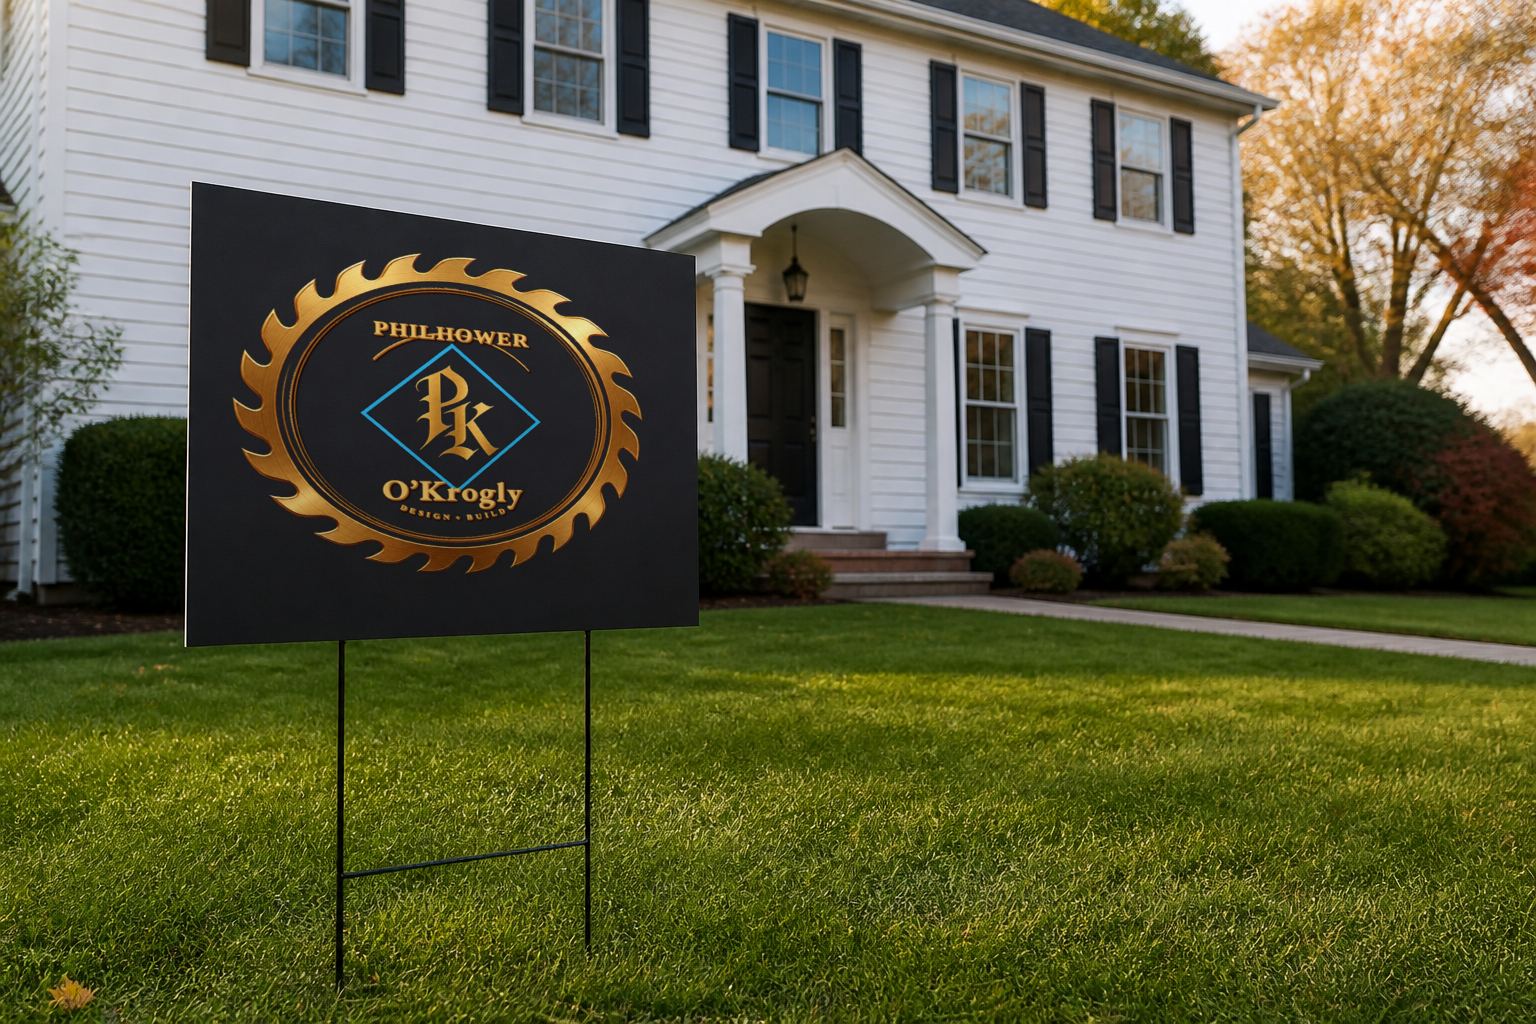
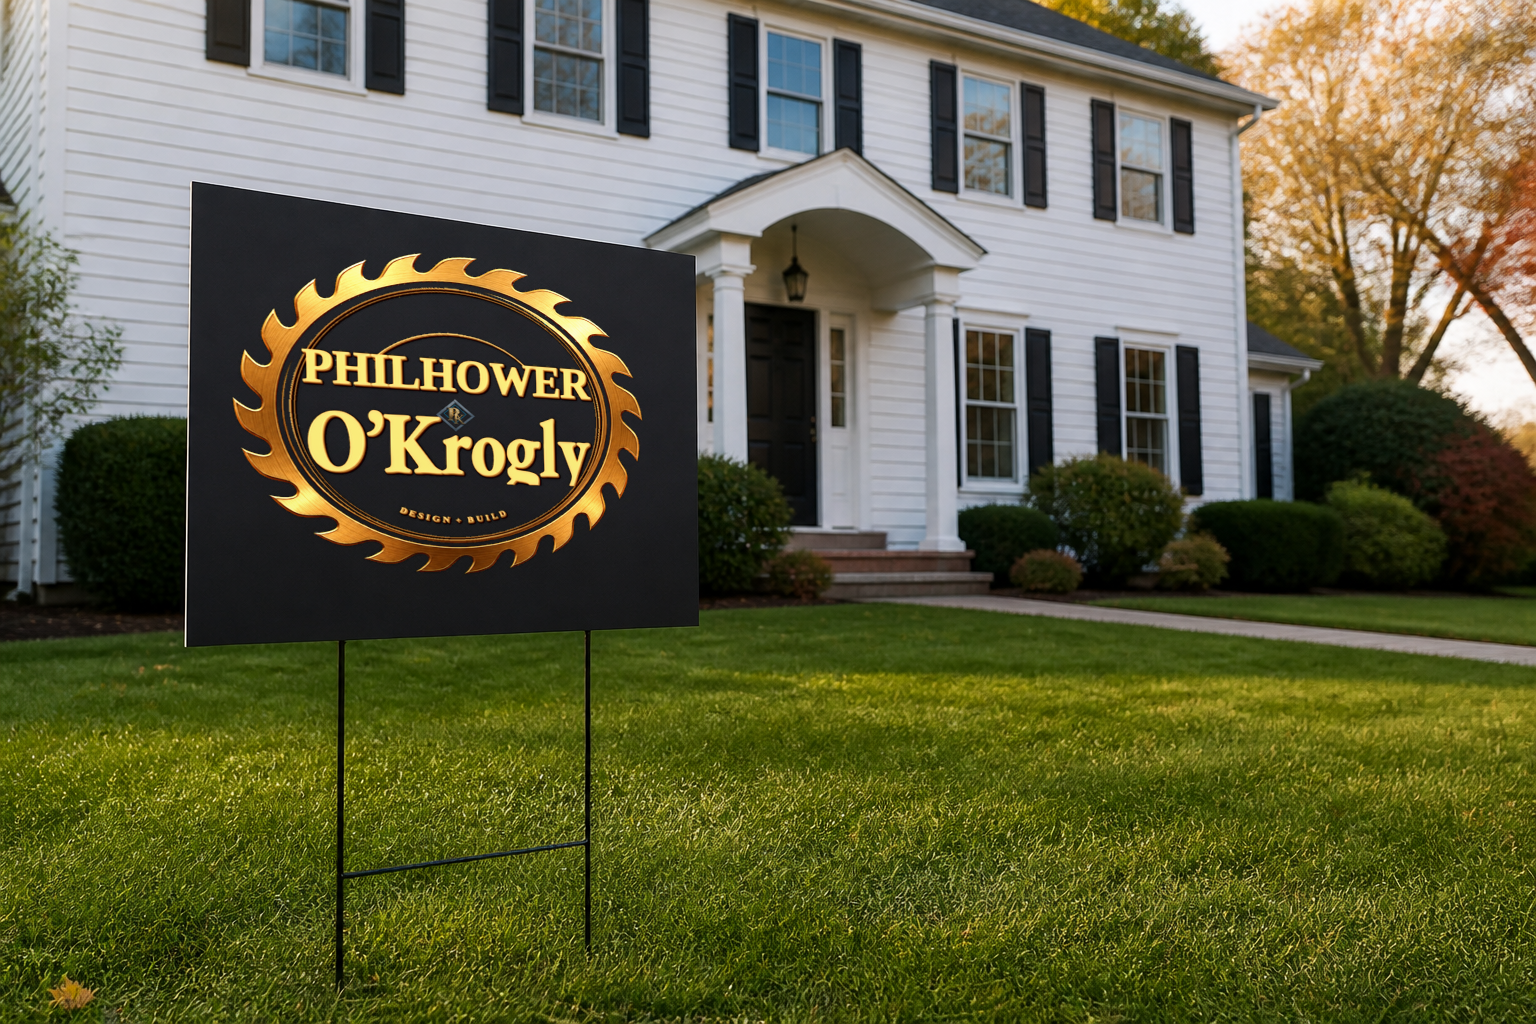
Restyle the POK diamond as a carpenter-square PK.
NJ trade research: keep the Hills blade and big Times/Garamond names;
swap gothic PK for a pale framing-square diamond. Theme 1.0.27.

Changed region(s): [[0.1562, 0.25, 0.4375, 0.5625]]

diff --git a/dphilhower-studio-wp/preview/work/philhower-okrogly/index.html b/dphilhower-studio-wp/preview/work/philhower-okrogly/index.html
@@ -4,7 +4,7 @@
   <meta charset="utf-8">
   <meta name="viewport" content="width=device-width, initial-scale=1">
   <title>Philhower &amp; O’Krogly — D Philhower Studio</title>
-  <meta name="description" content="Philhower &amp; O’Krogly Design + Build by D Philhower Studio: Times New Roman, Garamond, and the cyan PK diamond on the Hills blade.">
+  <meta name="description" content="Philhower &amp; O’Krogly Design + Build: Hills blade, Times PHILHOWER, Garamond O’Krogly, pale carpenter-square PK diamond.">
   <link rel="icon" href="../../img/favicon.svg" type="image/svg+xml">
   <link rel="preconnect" href="https://fonts.googleapis.com">
   <link rel="preconnect" href="https://fonts.gstatic.com" crossorigin>
@@ -31,7 +31,7 @@
       <p>Design + Build</p>
     </header>
     <div class="case-hero">
-      <img src="../../img/pok-hero.png" alt="Philhower &amp; O’Krogly lockup: Hills blade, Times PHILHOWER, cyan PK diamond, Garamond O’Krogly, DESIGN + BUILD" width="1536" height="1024">
+      <img src="../../img/pok-hero.png" alt="Philhower &amp; O’Krogly lockup: Hills blade, Times PHILHOWER, carpenter-square PK diamond, Garamond O’Krogly, DESIGN + BUILD" width="1536" height="1024">
     </div>
     <article class="case-body">
       <ul class="case-meta">
@@ -41,7 +41,7 @@
         <li><strong>Place</strong><br>Northern New Jersey</li>
       </ul>
       <div class="entry-content">
-        <p>Hills blade, double ring, top arc. The cyan PK diamond is the mark. PHILHOWER in Times, O’Krogly in Garamond on the rings. DESIGN + BUILD on the bottom arc.</p>
+        <p>Same Hills blade, bigger type. PHILHOWER in modern Times New Roman. O’Krogly in Garamond. Between them a pale carpenter-square diamond — Times P, Garamond K — the NJ trade color for sky-blue ideas, not a union badge. DESIGN + BUILD on the bottom arc.</p>
         <p>One lockup. Polo, van, yard, card, fridge. Black field so gold reads. Blue is only the diamond.</p>
       </div>
     </article>
@@ -56,7 +56,7 @@
         </figure>
         <figure>
           <img src="../../img/pok-print-shirt.png" alt="Black polo with the Philhower &amp; O’Krogly saw-blade lockup centered on the chest" width="1536" height="1024">
-          <figcaption><strong>Polo</strong> Center chest. Cyan PK diamond is the focus; Times and Garamond on the rings.</figcaption>
+          <figcaption><strong>Polo</strong> Center chest. Times, carpenter-square PK, Garamond — one lockup.</figcaption>
         </figure>
         <figure>
           <img src="../../img/pok-print-van.png" alt="Matte black van with the Philhower &amp; O’Krogly saw-blade lockup on the side" width="1536" height="1024">

diff --git a/dphilhower-studio-wp/theme/dphilhower-studio/inc/brand-kits.php b/dphilhower-studio-wp/theme/dphilhower-studio/inc/brand-kits.php
@@ -289,7 +289,7 @@ function dps_brand_kits() {
 		'philhower-okrogly'        => array(
 			'label'  => __( 'Print system', 'dphilhower-studio' ),
 			'title'  => __( 'One lockup, five scales', 'dphilhower-studio' ),
-			'intro'  => __( 'Hills blade, double ring, top arc. The cyan PK diamond is the mark. Times PHILHOWER and Garamond O’Krogly on the rings. DESIGN + BUILD on the bottom arc. Polo, van, yard, card, fridge — one lockup.', 'dphilhower-studio' ),
+			'intro'  => __( 'Hills blade, bigger type. Times PHILHOWER, Garamond O’Krogly, pale carpenter-square PK diamond. DESIGN + BUILD on the bottom arc. Polo, van, yard, card, fridge — one lockup.', 'dphilhower-studio' ),
 			'pieces' => array(
 				array(
 					'file'    => 'pok-seal-hero.png',
@@ -301,7 +301,7 @@ function dps_brand_kits() {
 					'file'    => 'pok-print-shirt.png',
 					'alt'     => __( 'Black polo with the Philhower & O’Krogly saw-blade lockup centered on the chest', 'dphilhower-studio' ),
 					'heading' => __( 'Polo', 'dphilhower-studio' ),
-					'story'   => __( 'Center chest. Cyan PK diamond is the focus; Times and Garamond on the rings.', 'dphilhower-studio' ),
+					'story'   => __( 'Center chest. Times, carpenter-square PK, Garamond — one lockup.', 'dphilhower-studio' ),
 				),
 				array(
 					'file'    => 'pok-print-van.png',

diff --git a/dphilhower-studio-wp/theme/dphilhower-studio/inc/setup-content.php b/dphilhower-studio-wp/theme/dphilhower-studio/inc/setup-content.php
@@ -326,7 +326,7 @@ function dps_seed_demo_content( $force = false ) {
 			'services' => 'Identity · embroidery · vehicle · signage',
 			'year'     => '2025',
 			'location' => 'Northern New Jersey',
-			'content'  => '<p>Hills blade, double ring, top arc. The cyan PK diamond is the mark. PHILHOWER in Times, O’Krogly in Garamond on the rings. DESIGN + BUILD on the bottom arc.</p><p>One lockup. Polo, van, yard, card, fridge. Black field so gold reads. Blue is only the diamond.</p>',
+			'content'  => '<p>Same Hills blade, bigger type. PHILHOWER in modern Times New Roman. O’Krogly in Garamond. Between them a pale carpenter-square diamond — Times P, Garamond K — the NJ trade color for sky-blue ideas, not a union badge. DESIGN + BUILD on the bottom arc.</p><p>One lockup. Polo, van, yard, card, fridge. Black field so gold reads. Blue is only the diamond.</p>',
 		),
 		array(
 			'slug'     => 'cafe-robust',
